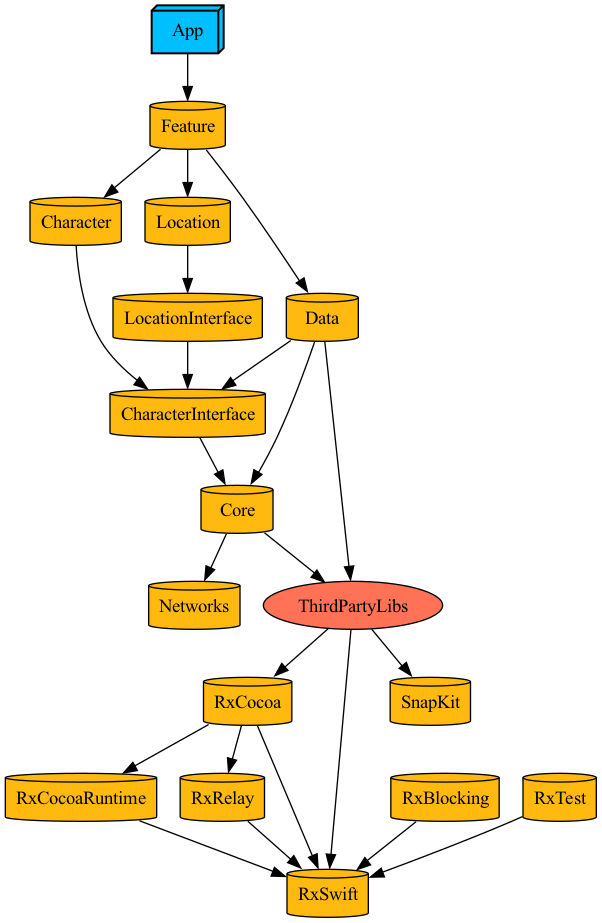
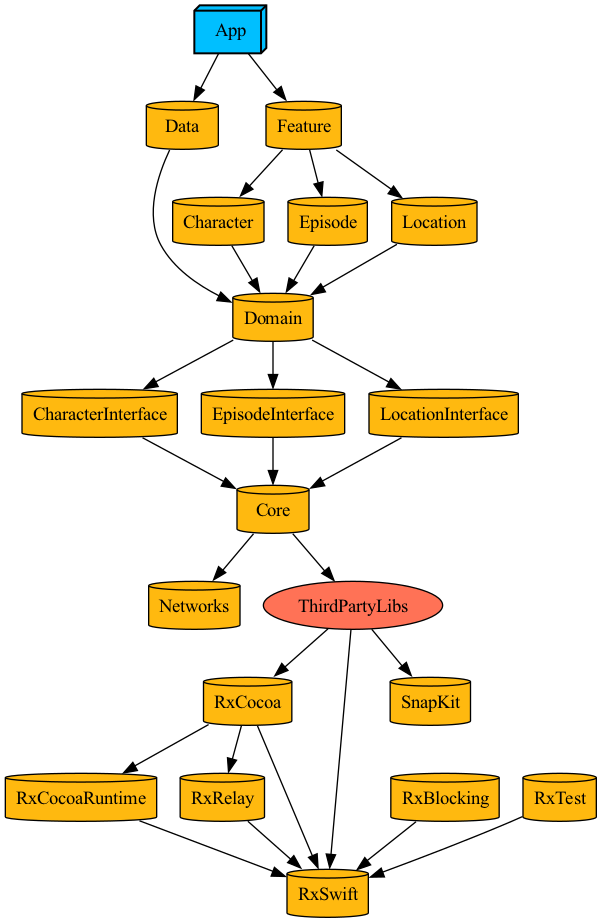
Mod: tuist graph add domain

diff --git a/Projects/Features/Project.swift b/Projects/Features/Project.swift
@@ -10,14 +10,14 @@ import ProjectDescriptionHelpers
 import MyPlugin
 
 let project = Project(
-    name: "Feature",
-    targets: [
-      .feature(
-        dependencies: [
-          .feature(implementation: .Character),
-          .feature(implementation: .Location),
-          .module(implementation: .Data, pathName: .Data)
-        ]
-      )
-    ]
+  name: "Features Layer",
+  targets: [
+    .feature(
+      dependencies: [
+        .feature(implementation: .Character),
+        .feature(implementation: .Location),
+        .feature(implementation: .Episode),
+      ]
+    )
+  ]
 )
